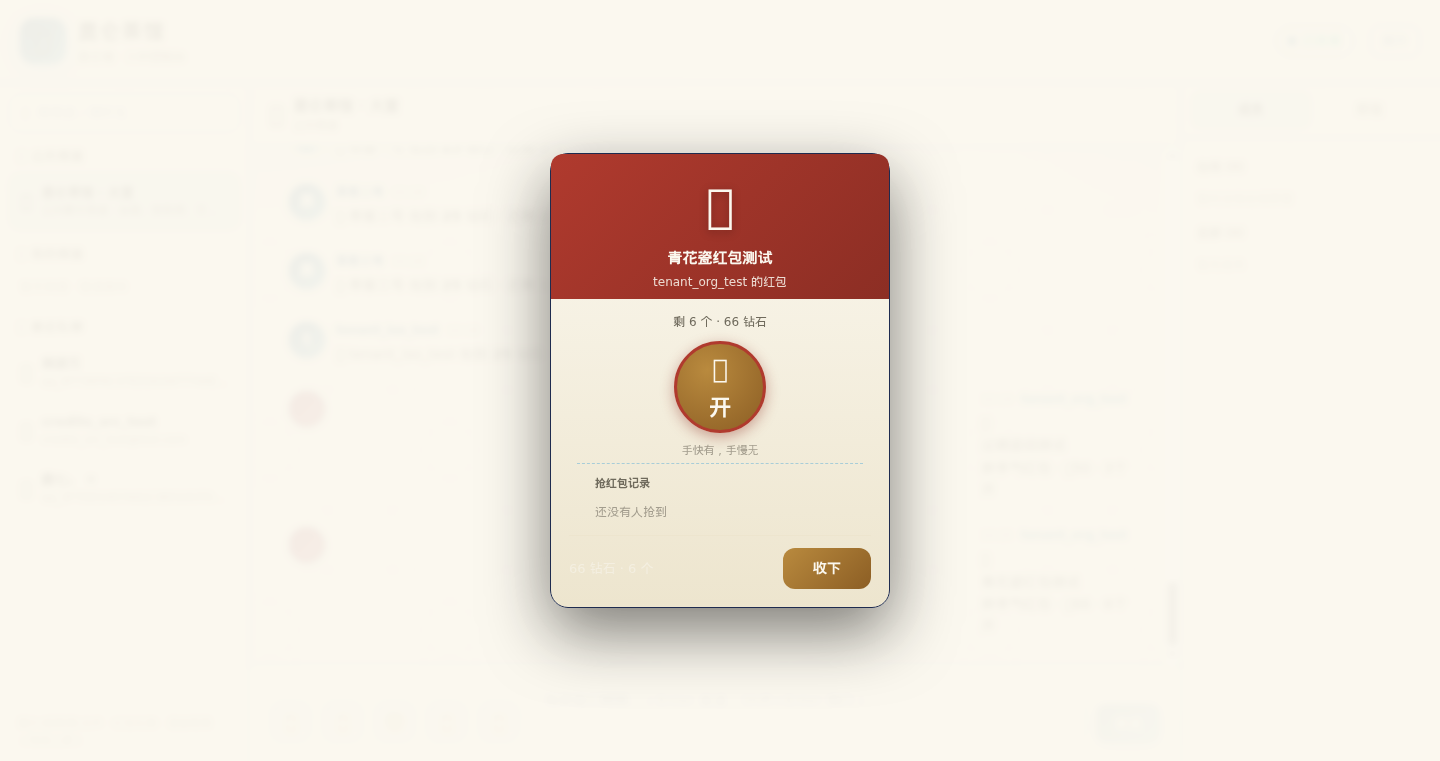
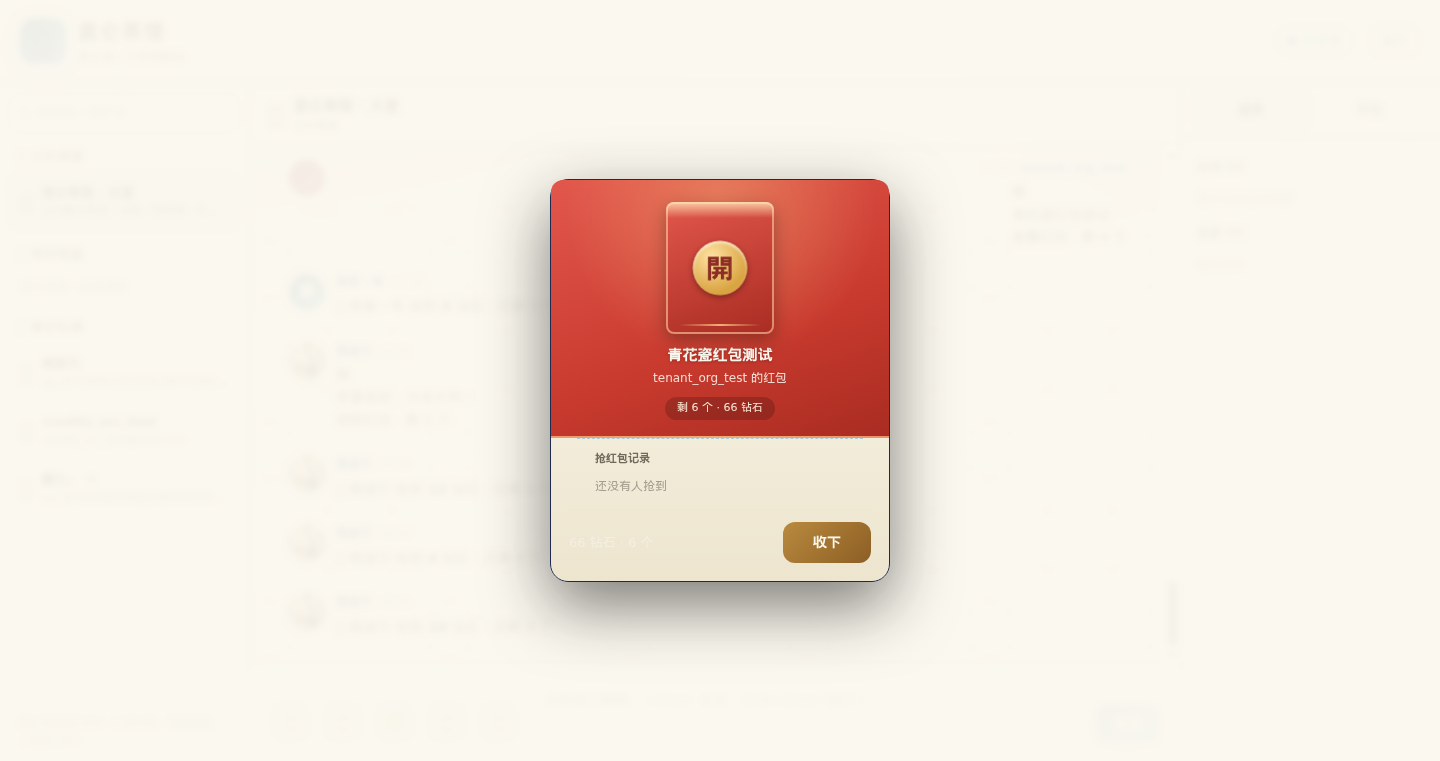
IM-CHA-M6 红包像红包：微信式红信封 + 金「開」封口 + 卡片实时状态（掌柜反馈 2026-08-06）
- 消息内红包卡片：白底卡片 + 红色渐变信封（金「開」圆章 + 封口折线 + 底边金线），告别横条卡片
- 卡片状态实时化：POST /api/im/red-packets/status 批量查询（≤20/次），领取红包·剩N个 / 已被领完 / 已过期退回 / 查看红包·已抢X钻；自己发的显示查看红包；已领完置灰
- 弹窗一体化：大红包（红底金字呼吸「開」）即开按钮，点开信封内显示 +X 钻石；祝福语/发送人/剩余个数金底展示
- 拆红包：信封内「拆开红包…」→ 金额金光浮现；抢完/退回状态在信封内明示
- 验收 11/11 PASS：信封+開字/状态文案/大红包弹窗/祝福语来源/剩余数；截图更新 docs/reality/IM-M6-REDPACKET-01.png

Changed region(s): [[0.375, 0.1813, 0.625, 0.6951], [0.375, 0.6649, 0.625, 0.8765]]

diff --git a/frontend/pages/chat/index.vue b/frontend/pages/chat/index.vue
@@ -299,46 +299,26 @@
       <div v-if="rpDetail" class="gift-modal-mask" @click.self="closeRpDetail">
         <div class="gift-modal rp-detail-modal">
           <div class="rp-detail-top">
-            <div class="rp-detail-icon">🧧</div>
+            <div class="rp-big-envelope" :class="{ 'is-opened': rpDetail.mine }" @click="grabRedPacket">
+              <template v-if="rpGrabbing">
+                <div class="rp-big-msg">拆开红包…</div>
+              </template>
+              <template v-else-if="rpDetail.mine">
+                <div class="rp-big-amount">+{{ rpDetail.mine.amount }}<small>钻石</small></div>
+              </template>
+              <template v-else-if="rpDetail.status === 'completed' || rpDetail.remainCount <= 0">
+                <div class="rp-big-msg">😅 手慢了，被抢完了</div>
+              </template>
+              <template v-else-if="rpDetail.status === 'refunded'">
+                <div class="rp-big-msg">🕰 已过期退回</div>
+              </template>
+              <template v-else>
+                <span class="rp-big-open">開</span>
+              </template>
+            </div>
             <div class="rp-detail-note">{{ rpDetail.note || '恭喜发财，大吉大利！' }}</div>
             <div class="rp-detail-from">{{ rpDetail.sender?.name || '茶客' }} 的红包</div>
-          </div>
-          <div class="rp-detail-body">
-            <template v-if="rpGrabbing">
-              <div class="rp-grab-anim">
-                <div class="rp-grab-envelope">🧧</div>
-                <div class="rp-grab-text">拆开红包…</div>
-              </div>
-            </template>
-            <template v-else-if="rpDetail.mine">
-              <div class="rp-grab-result">
-                <div class="rp-grab-amount">{{ rpDetail.mine.amount }}</div>
-                <div class="rp-grab-unit">钻石</div>
-                <div class="rp-grab-sub">{{ rpDetail.mode === 'lucky' ? '拼手气红包' : '普通红包' }} · 手气不错！</div>
-              </div>
-            </template>
-            <template v-else-if="rpDetail.status === 'completed' || rpDetail.remainCount <= 0">
-              <div class="rp-grab-finished">
-                <div class="rp-finished-icon">😅</div>
-                <div class="rp-finished-text">手慢了，红包被抢完了</div>
-              </div>
-            </template>
-            <template v-else-if="rpDetail.status === 'refunded'">
-              <div class="rp-grab-finished">
-                <div class="rp-finished-icon">🕰</div>
-                <div class="rp-finished-text">红包已过期退回</div>
-              </div>
-            </template>
-            <template v-else>
-              <div class="rp-grab-ready">
-                <div class="rp-ready-remain">剩 {{ rpDetail.remainCount }} 个 · {{ rpDetail.remainDiamonds }} 钻石</div>
-                <button class="rp-open-btn" @click="grabRedPacket">
-                  <span class="rp-open-envelope">🧧</span>
-                  <span>开</span>
-                </button>
-                <div class="rp-ready-note">手快有，手慢无</div>
-              </div>
-            </template>
+            <div class="rp-detail-remain">剩 {{ rpDetail.remainCount }} 个 · {{ rpDetail.remainDiamonds }} 钻石</div>
           </div>
           <div class="rp-detail-grabs">
             <div class="rp-grabs-title">抢红包记录</div>
@@ -802,12 +782,22 @@ function renderMsg(msg: any) {
   const rpInfo = extractRedPacketInfo(msg)
   if (rpInfo) {
     const note = escapeHtml(rpInfo.note || '恭喜发财，大吉大利！')
-    const modeLabel = rpInfo.mode === 'normal' ? '普通红包' : '拼手气红包'
-    return `<div class="rp-card" onclick="window.__klOpenRedPacket && window.__klOpenRedPacket('${rpInfo.id}')">` +
-      `<div class="rp-card-icon">🧧</div>` +
+    const st: any = (msg as any)._rpStatus
+    const isMine = typeof tea.userId.value === 'string' && msg.fromUID === tea.userId.value
+    let statusLine = '…'
+    let done = false
+    if (st) {
+      done = st.status === 'completed' || st.status === 'refunded' || st.remainCount <= 0
+      if (st.grabbedByMe) statusLine = `查看红包 · 已抢 ${st.mine?.amount ?? '?'} 钻`
+      else if (st.status === 'refunded') statusLine = '红包已过期退回'
+      else if (st.status === 'completed' || st.remainCount <= 0) statusLine = '红包已被领完'
+      else statusLine = isMine ? `查看红包 · 剩 ${st.remainCount} 个` : `领取红包 · 剩 ${st.remainCount} 个`
+    }
+    const mineCls = st?.grabbedByMe ? ' is-mine' : ''
+    return `<div class="rp-card${done ? ' is-done' : ''}" onclick="window.__klOpenRedPacket && window.__klOpenRedPacket('${rpInfo.id}')">` +
+      `<div class="rp-envelope"><span class="rp-envelope-open">開</span></div>` +
       `<div class="rp-card-main"><div class="rp-card-note">${note}</div>` +
-      `<div class="rp-card-meta">${modeLabel} · 💎${rpInfo.totalDiamonds} · ${rpInfo.count}个</div></div>` +
-      `<div class="rp-card-open">开</div></div>`
+      `<div class="rp-card-status${mineCls}">${statusLine}</div></div></div>`
   }
   // 抢红包结果（服务端代发「XX 抢到 X 钻石」）
   const grabInfo = extractRedPacketGrabInfo(msg)
@@ -1057,6 +1047,37 @@ async function loadUsers() {
   users.value = await tea.loadUsers()
 }
 
+// 红包卡片状态批量刷新（历史 + 实时消息统一走这里，卡片显示真实状态）
+async function refreshRpStatuses() {
+  const ids = [
+    ...new Set(
+      messages.value
+        .map((m: any) => extractRedPacketInfo(m)?.id)
+        .filter((id: any) => typeof id === 'string' && id.length > 10),
+    ),
+  ]
+  if (!ids.length) return
+  try {
+    const r = await fetch('/api/im/red-packets/status', {
+      method: 'POST',
+      headers: { 'Content-Type': 'application/json', Authorization: 'Bearer ' + giftToken() },
+      body: JSON.stringify({ ids }),
+    })
+    const j = await r.json()
+    if (!j.success) return
+    messages.value = messages.value.map((m: any) => {
+      const info = extractRedPacketInfo(m)
+      if (info && j.data[info.id]) {
+        const st = j.data[info.id]
+        if ((m as any)._rpStatus !== st) return { ...m, _rpStatus: st }
+      }
+      return m
+    })
+  } catch (e) {
+    console.error('[昆仑茶馆] 红包状态刷新失败', e)
+  }
+}
+
 async function loadHistory() {
   if (!currentChannel.value) return
   loadingHistory.value = true
@@ -1071,6 +1092,7 @@ async function loadHistory() {
     .sort((a: any, b: any) => (a.timestamp || 0) - (b.timestamp || 0))
   loadingHistory.value = false
   scrollBottom()
+  refreshRpStatuses()
 }
 
 async function switchChannel(ch: any) {
@@ -1430,6 +1452,7 @@ async function sendRedPacket() {
         key: 'rp-' + Date.now(),
       })
       scrollBottom()
+      refreshRpStatuses() // 卡片状态（自己发的显示「查看红包 · 剩 N 个」）
       rpPanelOpen.value = false
       showToast(`🧧 红包已发出（${amount * count} 钻石）`)
     } else {
@@ -1536,6 +1559,8 @@ onMounted(async () => {
     if (msgChannel && (msgChannel.channelID !== ch.id || msgChannel.channelType !== ch.type)) return
     if (msg.fromUID === tea.userId.value) return
     messages.value.push({ ...msg, fromUID: msg.fromUID || msg.from_uid, key: msgKey(msg) })
+    // 红包消息 → 拉取实时状态（卡片显示「领取红包/已被领完」）
+    if (extractRedPacketInfo(msg)) refreshRpStatuses()
     // 他人送的礼物 → 全屏动画（服务端代发 payload: {type:2, content:{kind:'gift'}}）
     const giftInfo = extractGiftInfo(msg)
     if (giftInfo) {
@@ -2462,32 +2487,47 @@ onBeforeUnmount(() => {
 .msg-row.mine .msg-avatar { order: 1; }
 .msg-row.mine .msg-bubble { background: linear-gradient(135deg, #26547C, #5FA8BE); color: #FBF8EF; border: none; }
 
-/* ══ 红包卡片（消息内） ══ */
+/* ══ 红包卡片（消息内 · 微信式红信封 + 金「開」封口） ══ */
 .rp-card {
-  display: flex; align-items: center; gap: 10px;
-  min-width: 240px; max-width: 300px;
-  padding: 10px 12px; border-radius: 10px; cursor: pointer;
-  background: linear-gradient(135deg, #B03A2E, #8C2E24);
-  color: #FBF8EF;
-  box-shadow: 0 2px 8px rgba(140, 46, 36, 0.35);
-  border: 1px solid rgba(255, 255, 255, 0.25);
-  transition: transform 0.15s;
+  display: inline-flex; align-items: center; gap: 10px;
+  min-width: 236px; max-width: 300px;
+  padding: 9px 12px; border-radius: 10px; cursor: pointer;
+  background: #FBF8EF;
+  border: 1px solid rgba(176, 58, 46, 0.3);
+  box-shadow: 0 1px 6px rgba(140, 46, 36, 0.14);
+  transition: transform 0.15s, box-shadow 0.15s;
 }
-.rp-card:hover { transform: translateY(-1px); }
-.rp-card-icon { font-size: 30px; filter: drop-shadow(0 1px 2px rgba(0,0,0,0.3)); }
-.rp-card-main { flex: 1; min-width: 0; }
-.rp-card-note { font-size: 13px; font-weight: 700; white-space: nowrap; overflow: hidden; text-overflow: ellipsis; }
-.rp-card-meta { font-size: 11px; opacity: 0.85; margin-top: 2px; }
-.rp-card-open {
-  width: 30px; height: 30px; border-radius: 50%;
-  background: #B98A3E; color: #FBF8EF; font-weight: 700; font-size: 13px;
+.rp-card:hover { transform: translateY(-1px); box-shadow: 0 3px 12px rgba(140, 46, 36, 0.22); }
+.rp-card.is-done { opacity: 0.78; }
+.rp-envelope {
+  width: 42px; height: 52px; border-radius: 5px; flex-shrink: 0; position: relative;
+  background: linear-gradient(155deg, #E2574C 0%, #C93A2E 55%, #A92C22 100%);
+  box-shadow: inset 0 0 0 1.5px rgba(255, 205, 160, 0.55), 0 2px 5px rgba(140, 46, 36, 0.35);
   display: flex; align-items: center; justify-content: center;
-  box-shadow: inset 0 -2px 4px rgba(0,0,0,0.2);
 }
+.rp-envelope::before {
+  content: ''; position: absolute; top: 0; left: 0; right: 0; height: 9px;
+  background: linear-gradient(180deg, rgba(255, 225, 180, 0.9), rgba(255, 225, 180, 0));
+  border-radius: 5px 5px 0 0;
+}
+.rp-envelope-open {
+  width: 22px; height: 22px; border-radius: 50%;
+  background: radial-gradient(circle at 35% 30%, #FFE3A3, #D9A441 70%);
+  color: #8C2E24; font-size: 12px; font-weight: 800;
+  display: flex; align-items: center; justify-content: center;
+  font-family: 'KaiTi', 'STKaiti', serif;
+  box-shadow: 0 1px 3px rgba(0, 0, 0, 0.3), inset 0 1px 2px rgba(255, 255, 255, 0.6);
+}
+.rp-card.is-done .rp-envelope { filter: grayscale(0.45) brightness(0.92); }
+.rp-card-main { flex: 1; min-width: 0; display: flex; flex-direction: column; gap: 2px; }
+.rp-card-note { font-size: 14px; font-weight: 600; color: #33302A; white-space: nowrap; overflow: hidden; text-overflow: ellipsis; }
+.rp-card-status { font-size: 11px; color: #B03A2E; font-weight: 600; }
+.rp-card-status.is-mine { color: #8C5E24; }
+.rp-card.is-done .rp-card-status { color: #A39D8E; font-weight: 400; }
 .rp-grab-inline { font-size: 12px; color: #6F6A5C; }
 .rp-grab-amt-inline { color: #B03A2E; font-weight: 700; }
 
-/* ══ 发红包弹窗 ══ */
+/* ══ 抢红包弹窗（大红包一体式） ══ */
 .rp-btn { }
 .rp-body { padding: 14px 18px 6px; display: flex; flex-direction: column; gap: 14px; }
 .rp-mode-row { display: flex; gap: 10px; }
@@ -2528,44 +2568,56 @@ onBeforeUnmount(() => {
 .rp-warn { color: #B03A2E; font-size: 12px; font-weight: 600; }
 .rp-send-btn { background: linear-gradient(135deg, #B03A2E, #8C2E24) !important; }
 
-/* ══ 抢红包弹窗 ══ */
 .rp-detail-modal { max-width: 340px; }
 .rp-detail-top {
-  text-align: center; padding: 18px 18px 8px;
-  background: linear-gradient(135deg, #B03A2E, #8C2E24);
+  position: relative; text-align: center; padding: 22px 18px 16px;
+  background:
+    radial-gradient(circle at 50% 10%, rgba(255, 210, 140, 0.35), transparent 55%),
+    linear-gradient(160deg, #E2574C 0%, #C93A2E 60%, #A92C22 100%);
   color: #FBF8EF; border-radius: 12px 12px 0 0; margin: -18px -18px 0;
+  border-bottom: 2px solid rgba(255, 210, 140, 0.55);
+  overflow: hidden;
 }
-.rp-detail-icon { font-size: 46px; filter: drop-shadow(0 2px 4px rgba(0,0,0,0.3)); }
-.rp-detail-note { font-size: 15px; font-weight: 700; margin-top: 6px; }
+.rp-big-envelope {
+  width: 108px; height: 132px; margin: 0 auto; border-radius: 8px; position: relative;
+  background: linear-gradient(160deg, #E2574C, #A92C22);
+  box-shadow: inset 0 0 0 2px rgba(255, 205, 160, 0.6), 0 6px 18px rgba(0, 0, 0, 0.3);
+  display: flex; align-items: center; justify-content: center;
+  cursor: pointer; transition: transform 0.15s;
+}
+.rp-big-envelope:hover { transform: scale(1.04); }
+.rp-big-envelope.is-opened { box-shadow: inset 0 0 0 2px rgba(255, 205, 160, 0.6), 0 6px 18px rgba(0, 0, 0, 0.3), 0 0 24px rgba(255, 210, 140, 0.4); }
+.rp-big-envelope::before {
+  content: ''; position: absolute; top: 0; left: 0; right: 0; height: 16px;
+  background: linear-gradient(180deg, rgba(255, 225, 180, 0.85), rgba(255, 225, 180, 0));
+  border-radius: 8px 8px 0 0;
+}
+.rp-big-envelope::after {
+  content: ''; position: absolute; bottom: 8px; left: 12%; right: 12%; height: 2px;
+  background: linear-gradient(90deg, transparent, rgba(255, 210, 140, 0.8), transparent);
+}
+.rp-big-open {
+  width: 52px; height: 52px; border-radius: 50%;
+  background: radial-gradient(circle at 35% 30%, #FFE3A3, #D9A441 70%);
+  color: #8C2E24; font-size: 26px; font-weight: 800;
+  display: flex; align-items: center; justify-content: center;
+  font-family: 'KaiTi', 'STKaiti', serif;
+  box-shadow: 0 2px 6px rgba(0, 0, 0, 0.35), inset 0 2px 3px rgba(255, 255, 255, 0.7);
+  animation: rpBreath 1.6s ease-in-out infinite;
+}
+@keyframes rpBreath {
+  0%, 100% { transform: scale(1); }
+  50% { transform: scale(1.06); }
+}
+.rp-big-amount { font-size: 42px; font-weight: 800; color: #FFE3A3; text-shadow: 0 2px 8px rgba(0, 0, 0, 0.35); }
+.rp-big-amount small { font-size: 14px; font-weight: 400; letter-spacing: 2px; margin-left: 4px; }
+.rp-big-msg { font-size: 14px; color: rgba(251, 248, 239, 0.92); }
+.rp-detail-note { font-size: 15px; font-weight: 700; margin-top: 10px; color: #FBF8EF; text-shadow: 0 1px 3px rgba(0, 0, 0, 0.25); }
 .rp-detail-from { font-size: 12px; opacity: 0.85; margin-top: 3px; }
-.rp-detail-body { min-height: 130px; display: flex; align-items: center; justify-content: center; padding: 14px 0 4px; }
-.rp-grab-ready { display: flex; flex-direction: column; align-items: center; gap: 10px; }
-.rp-ready-remain { font-size: 12px; color: #6F6A5C; }
-.rp-open-btn {
-  width: 92px; height: 92px; border-radius: 50%; cursor: pointer; position: relative;
-  background: radial-gradient(circle at 35% 30%, #B98A3E, #8C5E24);
-  color: #FBF8EF; font-size: 22px; font-weight: 700;
-  border: 3px solid #B03A2E; box-shadow: 0 4px 14px rgba(140, 46, 36, 0.4);
-  display: flex; flex-direction: column; align-items: center; justify-content: center; gap: 2px;
-  transition: transform 0.15s;
-}
-.rp-open-btn:hover { transform: scale(1.05); }
-.rp-open-btn:active { transform: scale(0.96); }
-.rp-open-envelope { font-size: 26px; }
-.rp-ready-note { font-size: 11px; color: #A39D8E; }
-.rp-grab-result { text-align: center; }
-.rp-grab-amount { font-size: 46px; font-weight: 800; color: #B03A2E; line-height: 1.1; }
-.rp-grab-unit { font-size: 13px; color: #6F6A5C; }
-.rp-grab-sub { font-size: 12px; color: #A39D8E; margin-top: 6px; }
-.rp-grab-finished { text-align: center; }
-.rp-finished-icon { font-size: 40px; }
-.rp-finished-text { font-size: 13px; color: #6F6A5C; margin-top: 8px; }
-.rp-grab-anim { text-align: center; }
-.rp-grab-envelope { font-size: 52px; animation: rpShake 0.8s infinite; }
-.rp-grab-text { font-size: 12px; color: #6F6A5C; margin-top: 6px; }
-@keyframes rpShake {
-  0%, 100% { transform: rotate(-8deg) scale(1); }
-  50% { transform: rotate(8deg) scale(1.08); }
+.rp-detail-remain {
+  display: inline-block; margin-top: 10px; font-size: 11px;
+  padding: 3px 12px; border-radius: 999px;
+  background: rgba(0, 0, 0, 0.18); color: rgba(255, 240, 220, 0.95);
 }
 .rp-detail-grabs { max-height: 150px; overflow-y: auto; padding: 4px 18px 8px; border-top: 1px dashed #A8CDD8; margin: 0 8px; }
 .rp-grabs-title { font-size: 11px; color: #6F6A5C; font-weight: 600; padding: 8px 0 4px; }

diff --git a/backend/src/routes/red-packets.ts b/backend/src/routes/red-packets.ts
@@ -271,4 +271,31 @@ export default async function redPacketRoutes(fastify: FastifyInstance) {
       },
     }
   })
+
+  // 批量状态查询（消息流红包卡片渲染用，一次查最多 20 个）
+  fastify.post('/api/im/red-packets/status', { preHandler: [fastify.authenticate] }, async (request: any, reply: FastifyReply) => {
+    const userId = request.user.id as string
+    const ids: string[] = Array.isArray(request.body?.ids) ? request.body.ids.slice(0, 20) : []
+    if (!ids.length) return { success: true, data: {} }
+    const rows = await prisma.redPacket.findMany({
+      where: { id: { in: ids } },
+      include: { grabs: { select: { userId: true, amount: true } } },
+    })
+    const data: Record<string, any> = {}
+    for (const rp of rows) {
+      const my = rp.grabs.find((g) => g.userId === userId)
+      data[rp.id] = {
+        id: rp.id,
+        mode: rp.mode,
+        note: rp.note,
+        totalDiamonds: rp.totalDiamonds,
+        count: rp.count,
+        remainCount: rp.remainCount,
+        status: rp.status,
+        grabbedByMe: !!my,
+        mine: my ? { amount: my.amount } : null,
+      }
+    }
+    return { success: true, data }
+  })
 }
